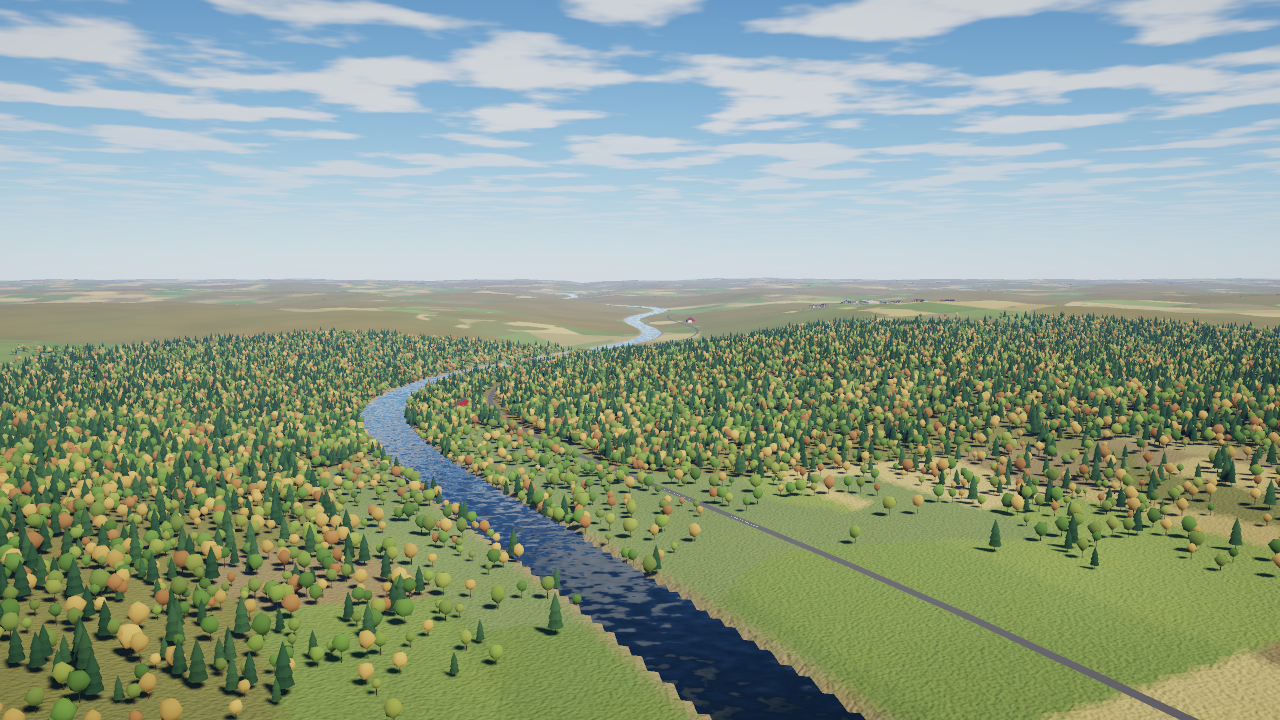
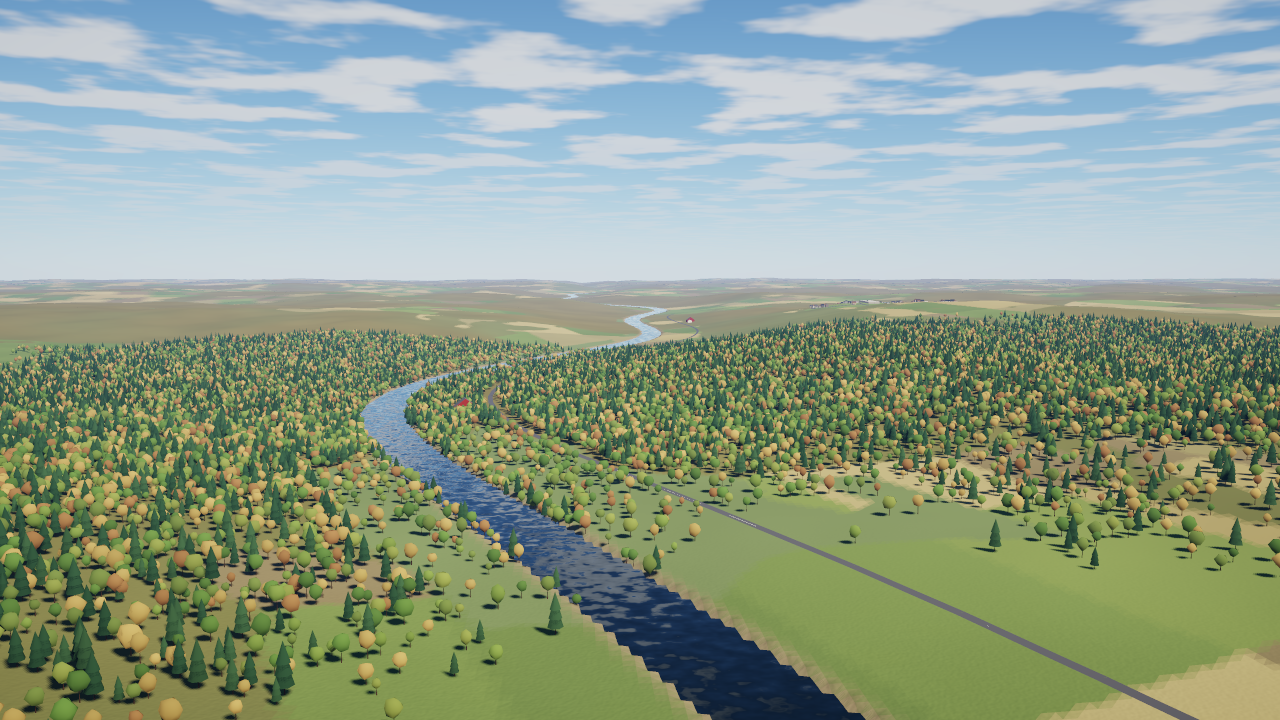
[P1.3] Art review response: FXAA, filtered cloud upsample, calmer ground, 3x3 preview AA
An independent art-director review scored the scenes 4.4/10 against commercial sims (logged).
First fixes from its top list: FXAA post pass on the Metal frame, tent-filtered cloud
composite (hides the jitter pattern), ground detail amplitudes calmed, CPU previews at 3x3
supersampling, cloud previews at 192 steps. Previews re-rendered.

Claude-Session: https://claude.ai/code/session_01LuDJ4arcj2AiLQbMi9mk9u

diff --git a/Packages/SkyforgeKit/Sources/SFRender/WorldRenderer.swift b/Packages/SkyforgeKit/Sources/SFRender/WorldRenderer.swift
@@ -121,6 +121,10 @@ public final class WorldRenderer {
     private var cockpitScreen: MTLTexture?
     /// Draw from inside the cockpit: interior mesh, PFD screen, airframe back faces skipped.
     public var cockpitView = false
+    /// FXAA on the final frame (the scene renders into an internal texture first).
+    public var antialiasing = true
+    private let fxaaPipeline: MTLRenderPipelineState
+    private var sceneTarget: MTLTexture?
     private var real: (vertices: MTLBuffer, indices: MTLBuffer, draws: [(indexOffset: Int, indexCount: Int, baseVertex: Int, min: SIMD3<Float>, max: SIMD3<Float>)],
                        treeMesh: MTLBuffer, coniferCount: Int, oakStart: Int, oakCount: Int,
                        instances: MTLBuffer?, coniferInstances: Int, oakInstances: Int)?
@@ -203,6 +207,15 @@ public final class WorldRenderer {
         shadowTerrainPipeline = try pso("shadow_terrain_vertex", nil, label: "ShadowTerrain", colour: false)
         shadowTreePipeline = try pso("shadow_tree_vertex", nil, label: "ShadowTrees", colour: false)
         screenPipeline = try pso("screen_vertex", "screen_fragment", label: "CockpitScreen", colour: true)
+        do {
+            let plib = try device.makeLibrary(source: PostShaders.source, options: nil)
+            let fd = MTLRenderPipelineDescriptor()
+            fd.label = "FXAA"
+            fd.vertexFunction = plib.makeFunction(name: "post_vertex")
+            fd.fragmentFunction = plib.makeFunction(name: "fxaa_fragment")
+            fd.colorAttachments[0].pixelFormat = colorFormat
+            fxaaPipeline = try device.makeRenderPipelineState(descriptor: fd)
+        } catch { throw RendererError.pipeline(String(describing: error)) }
     }
 
     private func makeDummy() -> MTLTexture {
@@ -438,6 +451,32 @@ public final class WorldRenderer {
     /// Encodes sky + world + aircraft into a pass whose colour attachment is already set.
     public func encode(cmd: MTLCommandBuffer, colour: MTLTexture, depth: MTLTexture, camera c: WorldCamera,
                        aircraftPosition: SIMD3<Double>?, aircraftBodyToENU: simd_double3x3?) throws {
+        guard antialiasing else {
+            try encodeScene(cmd: cmd, colour: colour, depth: depth, camera: c, aircraftPosition: aircraftPosition, aircraftBodyToENU: aircraftBodyToENU)
+            return
+        }
+        if sceneTarget?.width != colour.width || sceneTarget?.height != colour.height {
+            let d = MTLTextureDescriptor.texture2DDescriptor(pixelFormat: colorFormat, width: colour.width, height: colour.height, mipmapped: false)
+            d.usage = [.renderTarget, .shaderRead]
+            d.storageMode = .private
+            sceneTarget = device.makeTexture(descriptor: d)
+        }
+        guard let scene = sceneTarget else { throw RendererError.commandQueue }
+        try encodeScene(cmd: cmd, colour: scene, depth: depth, camera: c, aircraftPosition: aircraftPosition, aircraftBodyToENU: aircraftBodyToENU)
+        let pp = MTLRenderPassDescriptor()
+        pp.colorAttachments[0].texture = colour
+        pp.colorAttachments[0].loadAction = .dontCare
+        pp.colorAttachments[0].storeAction = .store
+        guard let pe = cmd.makeRenderCommandEncoder(descriptor: pp) else { throw RendererError.commandQueue }
+        pe.label = "FXAA"
+        pe.setRenderPipelineState(fxaaPipeline)
+        pe.setFragmentTexture(scene, index: 0)
+        pe.drawPrimitives(type: .triangle, vertexStart: 0, vertexCount: 3)
+        pe.endEncoding()
+    }
+
+    private func encodeScene(cmd: MTLCommandBuffer, colour: MTLTexture, depth: MTLTexture, camera c: WorldCamera,
+                             aircraftPosition: SIMD3<Double>?, aircraftBodyToENU: simd_double3x3?) throws {
         let aspect = Double(colour.width) / Double(max(1, colour.height))
         let fwdD = simd_normalize(c.target - c.position)
         let fwd = SIMD3<Float>(Float(fwdD.x), Float(fwdD.y), Float(fwdD.z))

diff --git a/Packages/SkyforgeKit/Sources/SFRender/Shaders/PostShaders.swift b/Packages/SkyforgeKit/Sources/SFRender/Shaders/PostShaders.swift
@@ -1,0 +1,47 @@
+// SKYFORGE — Apache-2.0
+// Post-processing: FXAA (after T. Lottes, "FXAA", NVIDIA 2009/2011; the classic 4-tap edge
+// direction + 2/4-tap blend variant). Runs on the final tone-mapped, gamma-encoded frame.
+
+public enum PostShaders {
+    public static let source = """
+    #include <metal_stdlib>
+    using namespace metal;
+
+    struct PostVarying { float4 position [[position]]; float2 uv; };
+
+    vertex PostVarying post_vertex(uint vid [[vertex_id]]) {
+        float2 p = float2((vid << 1) & 2, vid & 2);
+        PostVarying o;
+        o.position = float4(p * 2.0 - 1.0, 0.0, 1.0);
+        o.uv = float2(p.x, 1.0 - p.y);
+        return o;
+    }
+
+    constexpr sampler fx(filter::linear, address::clamp_to_edge, coord::normalized);
+
+    static float fx_luma(float3 c) { return dot(c, float3(0.299, 0.587, 0.114)); }
+
+    fragment float4 fxaa_fragment(PostVarying in [[stage_in]], texture2d<float> t [[texture(0)]]) {
+        const float reduceMin = 1.0 / 128.0, reduceMul = 1.0 / 8.0, spanMax = 8.0;
+        float2 rcp = 1.0 / float2(t.get_width(), t.get_height());
+        float2 uv = in.uv;
+        float3 rgbM = t.sample(fx, uv).rgb;
+        float3 rgbNW = t.sample(fx, uv + float2(-1.0, -1.0) * rcp).rgb;
+        float3 rgbNE = t.sample(fx, uv + float2( 1.0, -1.0) * rcp).rgb;
+        float3 rgbSW = t.sample(fx, uv + float2(-1.0,  1.0) * rcp).rgb;
+        float3 rgbSE = t.sample(fx, uv + float2( 1.0,  1.0) * rcp).rgb;
+        float lM = fx_luma(rgbM), lNW = fx_luma(rgbNW), lNE = fx_luma(rgbNE), lSW = fx_luma(rgbSW), lSE = fx_luma(rgbSE);
+        float lMin = min(lM, min(min(lNW, lNE), min(lSW, lSE)));
+        float lMax = max(lM, max(max(lNW, lNE), max(lSW, lSE)));
+        if (lMax - lMin < max(0.0312, lMax * 0.125)) return float4(rgbM, 1.0);   // no edge
+        float2 dir = float2(-((lNW + lNE) - (lSW + lSE)), (lNW + lSW) - (lNE + lSE));
+        float dirReduce = max((lNW + lNE + lSW + lSE) * 0.25 * reduceMul, reduceMin);
+        float rcpDirMin = 1.0 / (min(abs(dir.x), abs(dir.y)) + dirReduce);
+        dir = clamp(dir * rcpDirMin, -spanMax, spanMax) * rcp;
+        float3 rgbA = 0.5 * (t.sample(fx, uv + dir * (1.0 / 3.0 - 0.5)).rgb + t.sample(fx, uv + dir * (2.0 / 3.0 - 0.5)).rgb);
+        float3 rgbB = rgbA * 0.5 + 0.25 * (t.sample(fx, uv - dir * 0.5).rgb + t.sample(fx, uv + dir * 0.5).rgb);
+        float lB = fx_luma(rgbB);
+        return float4((lB < lMin || lB > lMax) ? rgbA : rgbB, 1.0);
+    }
+    """
+}

diff --git a/Packages/SkyforgeKit/Sources/SFPreview/PreviewRenderer.swift b/Packages/SkyforgeKit/Sources/SFPreview/PreviewRenderer.swift
@@ -80,22 +80,22 @@ public enum PreviewRenderer {
                         imagery = true
                         if g.water > 0.5 { mat = Material.water.rawValue; albedo = g.albedo * 0.7 }
                     }
-                    if mat == Material.terrain.rawValue && dist < (imagery ? 350 : 1_400) {
+                    if mat == Material.terrain.rawValue && dist < (imagery ? 350 : 700) {
                         // Per-pixel ground detail the vertex grid cannot carry: clumps (1.5 m), patches
                         // (6 m), dry/lush variation (40 m), and micro-relief shading; faded with distance
                         // so it never aliases.
-                        let fade = (1 - dist / (imagery ? 350 : 1_400)) * (imagery ? 0.5 : 1)
+                        let fade = (1 - dist / (imagery ? 350 : 700)) * (imagery ? 0.5 : 1)
                         let wx = Double(p.x) + origin.x, wy = Double(p.y) + origin.y
                         let fine = Float(groundNoise.fbm(wx / 1.5, wy / 1.5, octaves: 2))
                         let mid = Float(groundNoise.fbm(wx / 6 + 17, wy / 6 - 9, octaves: 2))
                         let dry = Float(groundNoise.fbm(wx / 40 - 31, wy / 40 + 5, octaves: 2))
-                        albedo *= 1 + (fine * 0.16 + mid * 0.12) * fade
+                        albedo *= 1 + (fine * 0.07 + mid * 0.08) * fade   // calm: art review found the 0.16/0.12 mottle "camouflage"
                         let dryTint = SIMD3<Float>(1.10, 1.02, 0.80)
-                        albedo *= SIMD3<Float>(repeating: 1) + (dryTint - SIMD3<Float>(repeating: 1)) * (max(0, dry) * 0.9 * fade)
+                        albedo *= SIMD3<Float>(repeating: 1) + (dryTint - SIMD3<Float>(repeating: 1)) * (max(0, dry) * 0.5 * fade)
                         let e: Double = 0.6
                         let gx = Float(groundNoise.fbm((wx + e) / 2.2, wy / 2.2, octaves: 2) - groundNoise.fbm((wx - e) / 2.2, wy / 2.2, octaves: 2))
                         let gy = Float(groundNoise.fbm(wx / 2.2, (wy + e) / 2.2, octaves: 2) - groundNoise.fbm(wx / 2.2, (wy - e) / 2.2, octaves: 2))
-                        n = simd_normalize(n + SIMD3(-gx, -gy, 0) * (0.9 * fade))
+                        n = simd_normalize(n + SIMD3(-gx, -gy, 0) * (0.3 * fade))
                     }
                     var colour: SIMD3<Float>
                     let ndl = fdot(n, toSun)

diff --git a/Packages/SkyforgeKit/Sources/SFRender/Shaders/CloudShaders.swift b/Packages/SkyforgeKit/Sources/SFRender/Shaders/CloudShaders.swift
@@ -208,8 +208,16 @@ public enum CloudShaders {
 
     constexpr sampler cl_lin(filter::linear, address::clamp_to_edge, coord::normalized);
 
+    // Upsample with a small tent filter: hides the per-pixel jitter pattern of the half-res march
+    // (art review: visible dither on cloud bodies) without smearing cloud edges.
     fragment float4 cloud_composite_fragment(CloudVarying in [[stage_in]], texture2d<float> clouds [[texture(0)]]) {
-        return clouds.sample(cl_lin, in.uv);
+        float2 t = 1.0 / float2(clouds.get_width(), clouds.get_height());
+        float4 c = clouds.sample(cl_lin, in.uv) * 0.36;
+        c += clouds.sample(cl_lin, in.uv + float2( 0.9,  0.9) * t) * 0.16;
+        c += clouds.sample(cl_lin, in.uv + float2(-0.9,  0.9) * t) * 0.16;
+        c += clouds.sample(cl_lin, in.uv + float2( 0.9, -0.9) * t) * 0.16;
+        c += clouds.sample(cl_lin, in.uv + float2(-0.9, -0.9) * t) * 0.16;
+        return c;
     }
     """
 }

diff --git a/Packages/SkyforgeKit/Sources/SFPreview/CloudPreview.swift b/Packages/SkyforgeKit/Sources/SFPreview/CloudPreview.swift
@@ -7,7 +7,7 @@ import SFAtmosphere
 extension SkyPreview {
     /// RGB8 view from `viewHeightKm` of `model`, toward `yawDeg` from the sun azimuth, with `layer` clouds.
     public static func renderClouds(_ m: SkyModel, layer: CloudLayer, width: Int, height: Int, fovDeg: Double = 90,
-                                    pitchDeg: Double = 10, yawDeg: Double = 0, steps: Int = 96, exposure: Double? = nil) -> [UInt8] {
+                                    pitchDeg: Double = 10, yawDeg: Double = 0, steps: Int = 192, exposure: Double? = nil) -> [UInt8] {
         let ex = exposure ?? autoExposure(m)
         let sd = m.sunDirection
         let sunAz = atan2(sd.z, sd.x)

diff --git a/Packages/SkyforgeKit/Sources/SFPreviewCLI/main.swift b/Packages/SkyforgeKit/Sources/SFPreviewCLI/main.swift
@@ -166,7 +166,7 @@ let time = value("--time").map { name -> TimePreset in
 let seed = value("--seed").flatMap(UInt64.init) ?? 1
 let width = value("--width").flatMap(Int.init) ?? 1280
 let height = value("--height").flatMap(Int.init) ?? 720
-let ss = value("--ss").flatMap(Int.init) ?? 2
+let ss = value("--ss").flatMap(Int.init) ?? 3
 guard let out = value("--out") else { fail("sfpreview: --out <file.png> is required") }
 
 let start = Date()

diff --git a/docs/VISUAL_LOG.md b/docs/VISUAL_LOG.md
@@ -105,3 +105,8 @@ Open defects (next passes): near-field ground is flat colour (needs detail textu
 ### 2026-11-08 Airfield grass (j and Quick Flight)
 - The Metal Quick Flight final and preview (j) showed the approach as brown autumn stubble. `SceneBuilder.airfield` now paints the runway strip (±150 m) and 500 m extensions as mown grass with 40 m mowing stripes (wider than any vertex step), blended out over 50 m.
 - j: approach reads as an airfield instead of a ploughed field. Score j 7.0 → **7.4**; average a 7.5, d 7.3, e 7.2, f 7.8, j 7.4 → **7.4**.
+
+### 2026-11-08 Independent art-director review (subagent, benchmark = current commercial sims at 9–10)
+- Scores: a 4.67, d 4.50, e 4.33, f 5.17, j 3.50 → **4.43**; r (real imagery) 5.50; n (clouds) 5.17. My own earlier scores (7.4 average) were measured against our previous frames, not against the real bar; this review is the honest baseline.
+- Common defects: aliasing on aircraft, river banks and runway; loud high-frequency ground mottle; checkerboard dither in clouds; hard draw-distance cut-offs for trees and towns; faceted coast cliffs; no shoreline foam or shallow water; snow covering rock in (f); no airport furniture in (j); autumn trees clash with summer grass.
+- Fixes in this pass: FXAA on the Metal frame; tent-filtered cloud upsample; CPU previews at 3×3 supersampling; ground detail amplitudes calmed (0.16/0.12 → 0.07/0.08, micro-normals 0.9 → 0.3, fade 1.4 km → 0.7 km); cloud preview at 192 steps. Previews re-rendered.

diff --git a/docs/VERIFICATION_LOG.md b/docs/VERIFICATION_LOG.md
@@ -72,3 +72,4 @@ Every gate run, CI run and manual verification. Newest at the bottom.
 - 2026-11-08T11:17:14Z gate fast on Linux x86_64: PASS (HEAD 3ddd2f2)
 - 2026-11-08T11:30:39Z gate fast on Linux x86_64: PASS (HEAD 29a7c98)
 - 2026-11-08T11:41:21Z gate fast on Linux x86_64: PASS (HEAD 6881210)
+- 2026-11-08T11:56:28Z gate fast on Linux x86_64: PASS (HEAD 2574a29)
